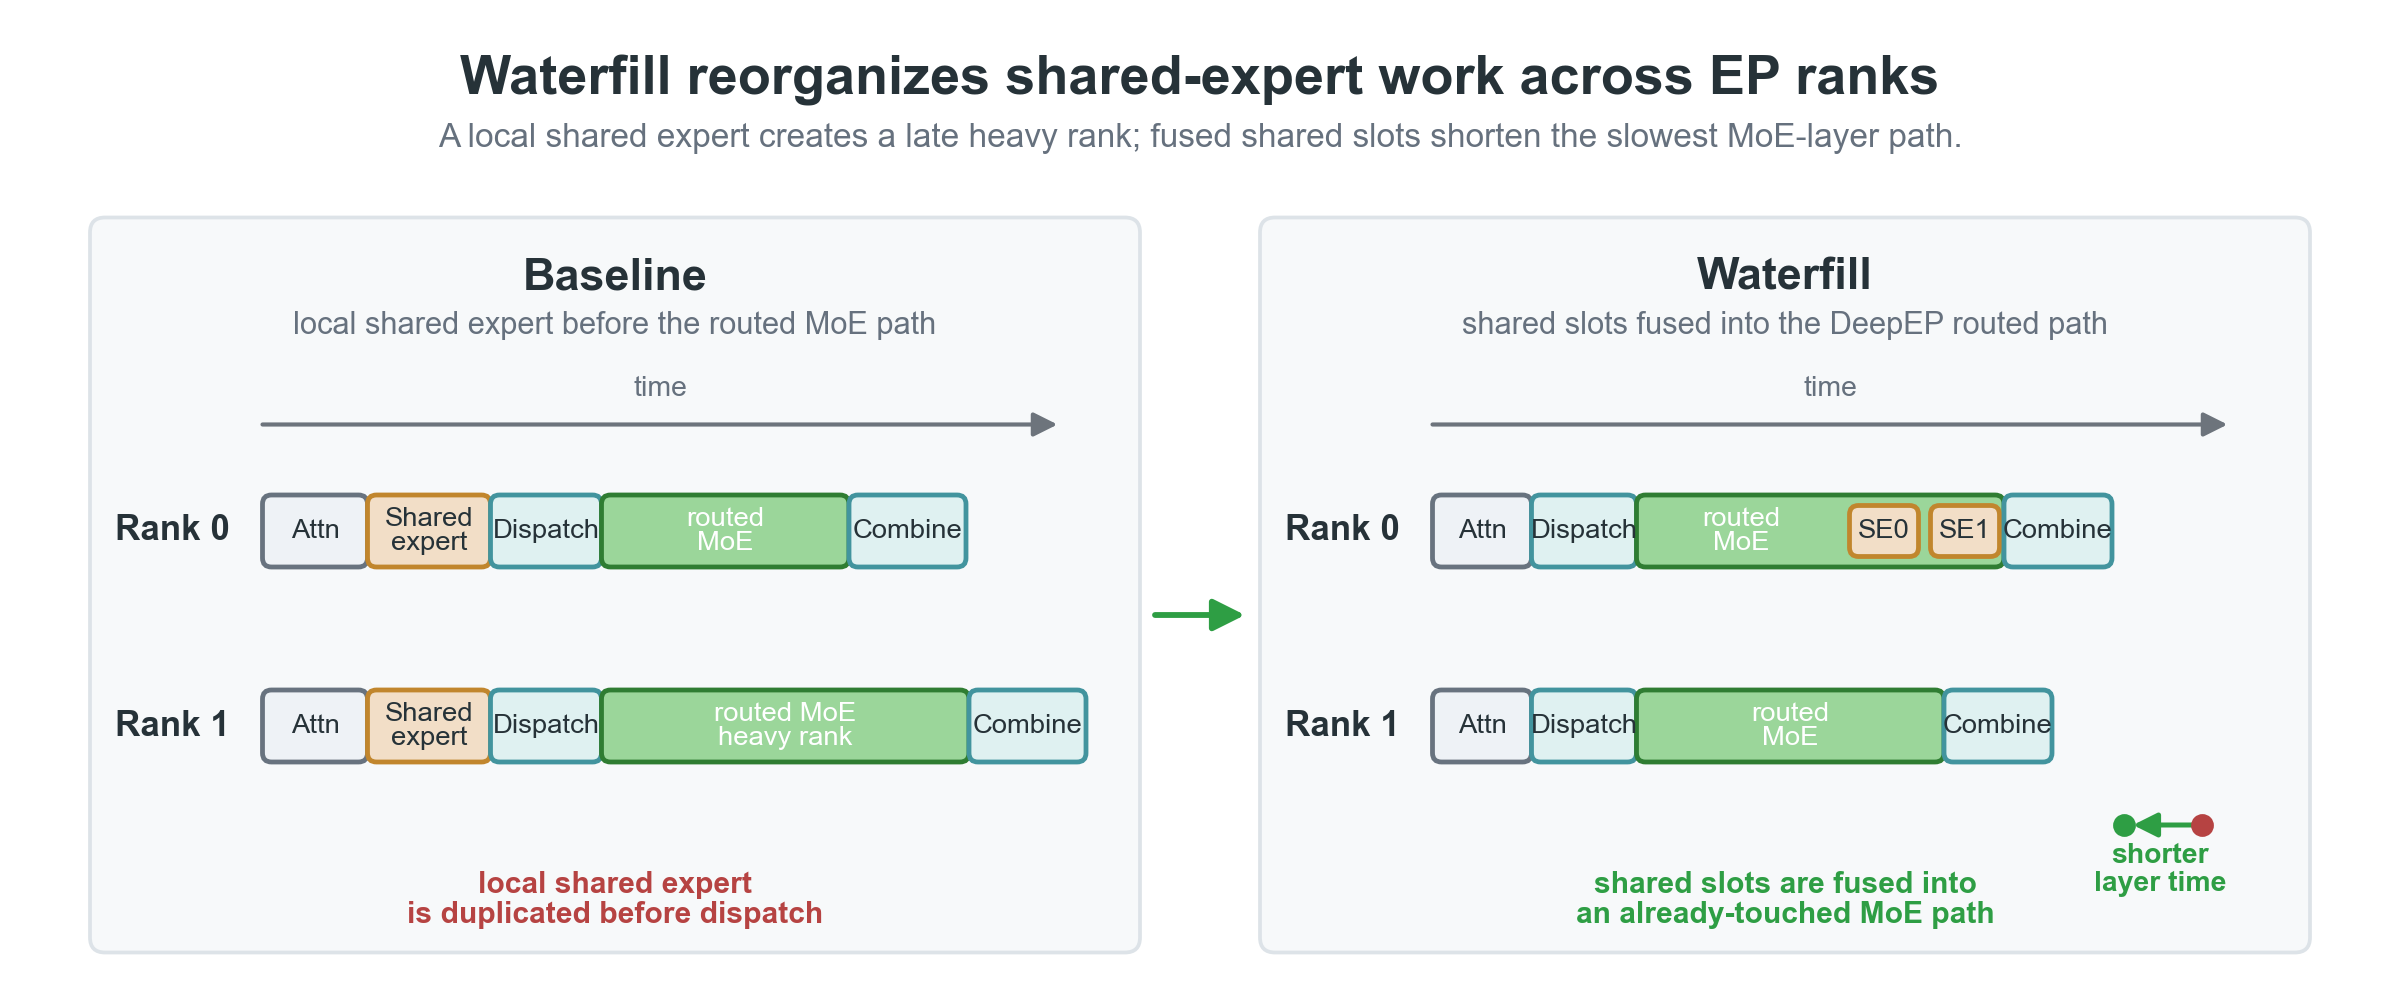
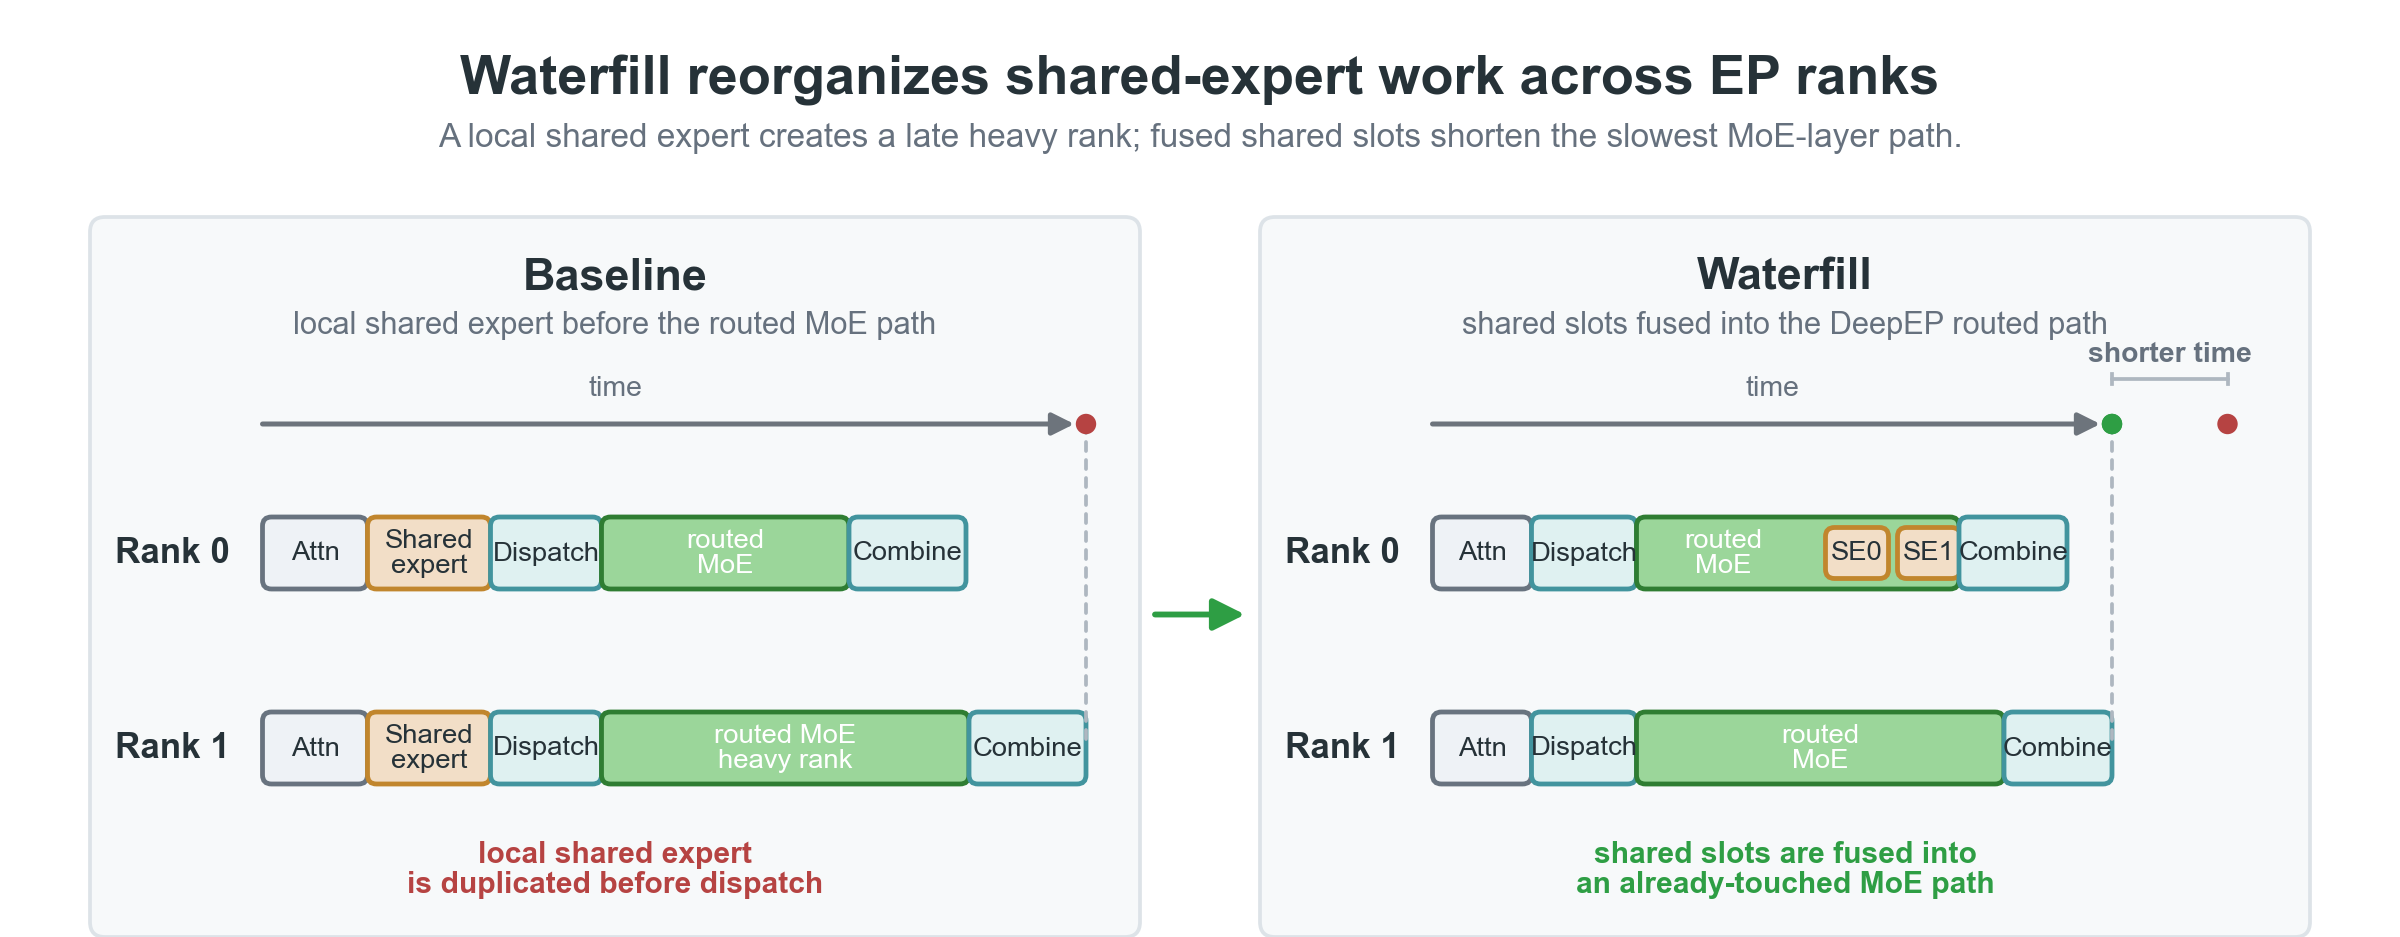
Add blog figures and captions

diff --git a/docs/deepep-waterfill-lplb-blog-draft.md b/docs/deepep-waterfill-lplb-blog-draft.md
@@ -88,7 +88,7 @@ By shifting shared-expert work away from already-heavy ranks and toward lighter 
 
 ![Waterfill timeline before and after shared-expert balancing](assets/waterfill_timeline_nature_redraw.png)
 
-Figure: Waterfill moves shared-expert work from overloaded ranks to lighter ranks while keeping the routed expert choices unchanged.
+Figure 1. Waterfill moves shared-expert work from overloaded ranks to lighter ranks while keeping the routed expert choices unchanged, shortening the slowest MoE-layer path without changing model semantics.
 
 ### Shared Expert Fusion as the Enabling Mechanism
 
@@ -149,6 +149,10 @@ The LP itself is solved on-GPU by a fused interior-point-method (IPM) kernel bui
 
 The LP returns, for each replicated logical expert, how its load *should* be divided across its physical copies. LPLB normalizes this into a per-expert probability distribution over the valid physical copies (`log2phy_prob`). At dispatch, each token routed to a replicated logical expert samples a physical copy from that distribution; single-copy experts map to their one physical location as before. This is a drop-in replacement for the existing `dynamic` policy, which picks a copy uniformly at random — LPLB keeps the same probabilistic, per-token dispatch shape but replaces the uniform draw with the load-optimal distribution computed for the batch.
 
+![LPLB load-aware split across redundant expert replicas](assets/lplb_redundant_traffic_diagram.png)
+
+Figure 2. LPLB shifts replicated-expert traffic toward lighter ranks without changing logical expert routing, so the same selected expert can finish on a less-loaded physical replica when redundant copies are available.
+
 ### How LPLB Differs from Waterfill
 
 Waterfill and LPLB share the end goal — flatten per-rank load under DeepEP — but act on different dispatch choices, with different machinery:
@@ -204,6 +208,14 @@ physical replicas of the same logical expert.
 | GSM8K | Static EPLB, red16 | 34,026 tok/s | 35,226 tok/s | +3.53% | 35,474 tok/s | +4.26% |
 | GSM8K | Static EPLB, red32 | 33,988 tok/s | 35,070 tok/s | +3.19% | 36,482 tok/s | +7.34% |
 
+![Waterfill throughput on DeepSeek V3/R1-style workloads](assets/fig1_baseline_vs_waterfill.png)
+
+Figure 3. Across MMLU, GPQA, and GSM8K, Waterfill consistently raises total throughput over the matched baseline by shifting shared-expert work toward less-loaded EP ranks.
+
+![LPLB throughput on DeepSeek V3/R1-style workloads](assets/fig2_baseline_vs_lplb.png)
+
+Figure 4. LPLB improves throughput when redundant expert replicas exist (`red16`/`red32`) because the LP has physical copies to choose among. With `red0`, there are no redundant replicas to rebalance, so the algorithm cannot improve dispatch and its all-reduce/solve path appears only as overhead.
+
 These results indicate that Waterfill improves throughput while preserving model quality, because it only changes physical shared-expert placement and does not change the logical expert computation. LPLB is strongest when redundant expert replicas provide useful dispatch choices, as shown by the red16 and red32 rows. In contrast, when no redundant experts are provided, LPLB has no room to balance the load and thus shows only the algorithm overhead.
 
 ### Waterfill on DeepSeek V4 Flash
@@ -221,6 +233,10 @@ DeepSeek V4 Flash FP8 on two Hopper GPU nodes showed consistent throughput impro
 | Static EPLB, red0 | 49,253 tok/s | 51,677 tok/s | +4.92% |
 | Static EPLB, red16 | 50,006 tok/s | 51,655 tok/s | +3.30% |
 | Static EPLB, red32 | 50,167 tok/s | 51,813 tok/s | +3.28% |
+
+![Waterfill throughput on DeepSeek V4 Flash](assets/fig3_v4_waterfill.png)
+
+Figure 5. On the DeepSeek V4 Flash `HashTopK` path, Waterfill remains directionally positive across no-EPLB and static-EPLB settings, with gains from +3.28% to +4.92%.
 
 These results use the V4 Flash `HashTopK` path and validate that Waterfill remains
 directionally positive on DeepSeek V4 Flash.
